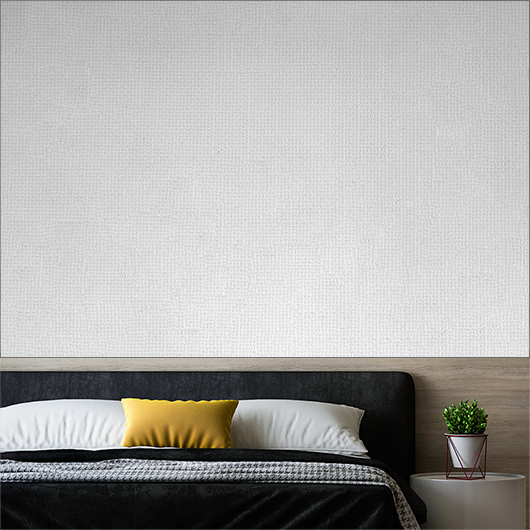
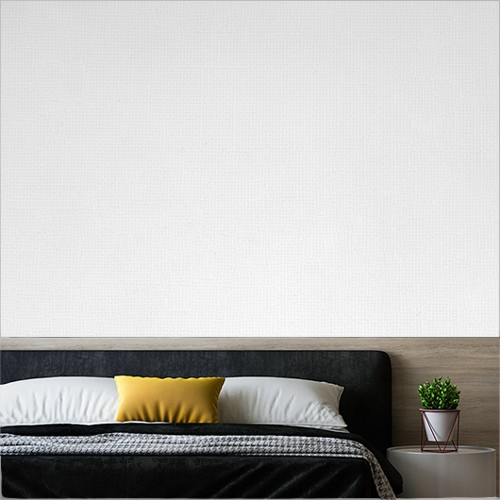
fixing  mask issues

diff --git a/src/components/ImagePreview.jsx b/src/components/ImagePreview.jsx
@@ -8,10 +8,10 @@ import { FreeMode, Thumbs, Navigation } from 'swiper/modules';
 import DesignEditor from './DesignEditor'; // Make sure this path is correct
 
 const ImagePreview = ({ designImage, widthFt, widthIn, heightFt, heightIn }) => {
-    
-  
 
-  
+
+
+
   const [selectedImage, setSelectedImage] = useState({
     src: 'images/mask_1.jpeg',
     type: 'measurement',
@@ -20,8 +20,8 @@ const ImagePreview = ({ designImage, widthFt, widthIn, heightFt, heightIn }) => 
   const swiperRef = useRef(null);
 
   const images = [
-    { src: 'images/mask_1.jpeg', type: 'measurement' },
-    { src: 'images/mask_2.png', type: 'image' },
+    { src: 'images/mask_1.jpeg', type: 'front' },
+    { src: 'images/mask_3.png', type: 'mask' },
     { src: 'images/sample_3.jpeg', type: 'video', videoSrc: 'videos/sq_wallpaper.mp4' },
     { src: 'images/sample_5.png', type: 'image' },
     { src: 'images/sample_6.png', type: 'image' },
@@ -44,56 +44,61 @@ const ImagePreview = ({ designImage, widthFt, widthIn, heightFt, heightIn }) => 
       );
     }
 
-    if (selectedImage.src === 'images/mask_1.jpeg') {
-  return (
-    <div className="relative p-2 bg-white rounded w-[539px] h-[638px]">
-      <img
-        src={selectedImage.src}
-        alt="Measurement"
-        className="absolute top-0 left-0 w-[539px] h-[638px] object-cover z-0"
-      />
-
-      {/* Repeating design overlay */}
-      {designImage && (
-        <DesignEditor imageSrc={designImage.src} />
-      )}
-    </div>
-  );
-}
-
-
-    if (selectedImage.src === 'images/mask_2.png') {
+    if (selectedImage.type === 'front') {
       return (
-        <div className="relative w-full h-[490px] overflow-hidden bg-white rounded">
+        <div className="relative p-2 bg-white rounded w-[539px] h-[638px]">
           <img
             src={selectedImage.src}
-            alt="Room Scene"
-            className="relative z-20 object-contain w-full h-full"
+            alt="Measurement"
+            className="absolute top-0 left-0 w-[539px] h-[638px] object-cover z-0"
           />
 
+          {/* Repeating design overlay */}
           {designImage && (
-            <div
-              className="absolute top-0 left-0 z-10 w-full h-full pointer-events-none"
-              style={{
-                backgroundImage: `url(${designImage.src})`,
-                backgroundRepeat: 'no-repeat',
-                backgroundSize: 'cover',
-                backgroundPosition: 'center',
-                backgroundColor: 'rgba(255, 255, 255, 1.0)',
-                WebkitMaskImage: `url(${selectedImage.src})`,
-                WebkitMaskRepeat: 'no-repeat',
-                WebkitMaskSize: 'contain',
-                WebkitMaskPosition: 'center bottom',
-                maskImage: `url(${selectedImage.src})`,
-                maskRepeat: 'no-repeat',
-                maskSize: 'contain',
-                maskPosition: 'center bottom',
-              }}
-            />
+            <DesignEditor imageSrc={designImage.src} />
           )}
         </div>
       );
     }
+
+
+   if (selectedImage.type === 'mask') {
+  return (
+    <div className="relative w-full h-[490px] overflow-hidden bg-white rounded">
+      
+      {/* Design image as the background */}
+      {designImage && (
+        <div
+          className="absolute top-0 left-0 z-0 w-full h-full"
+          style={{
+            backgroundImage: `url(${designImage.src})`,
+            backgroundRepeat: 'no-repeat',
+            backgroundSize: 'cover',
+            backgroundPosition: 'center',
+          }}
+        />
+      )}
+
+      {/* Masked furniture image on top */}
+      <img
+        src={selectedImage.src}
+        alt="Room Scene"
+        className="relative z-10 object-contain w-full h-full"
+        style={{
+          maskImage: `url(${selectedImage.src})`,
+          maskRepeat: 'no-repeat',
+          maskSize: 'contain',
+          maskPosition: 'center bottom',
+          WebkitMaskImage: `url(${selectedImage.src})`,
+          WebkitMaskRepeat: 'no-repeat',
+          WebkitMaskSize: 'contain',
+          WebkitMaskPosition: 'center bottom',
+        }}
+      />
+    </div>
+  );
+}
+
 
     // Default image preview
     return (
@@ -134,9 +139,8 @@ const ImagePreview = ({ designImage, widthFt, widthIn, heightFt, heightIn }) => 
               <img
                 src={img.src}
                 alt={`Thumbnail ${i + 1}`}
-                className={`w-20 h-24 cursor-pointer border rounded object-contain ${
-                  selectedImage.src === img.src ? 'border-pink-500' : 'border-gray-300'
-                }`}
+                className={`w-20 h-24 cursor-pointer border rounded object-contain ${selectedImage.src === img.src ? 'border-pink-500' : 'border-gray-300'
+                  }`}
                 onClick={() => setSelectedImage(img)}
               />
             </SwiperSlide>

diff --git a/src/components/Header.jsx b/src/components/Header.jsx
@@ -1,0 +1,17 @@
+// components/Header.jsx
+import React from "react";
+
+const Header = () => {
+  return (
+    <header className="flex items-center justify-between px-6 py-5 mb-3 text-white bg-pink-500">
+      <h1 className="text-xl font-bold">MyStore</h1>
+      <nav className="space-x-4">
+        <a href="#" className="hover:underline">Home</a>
+        <a href="#" className="hover:underline">Shop</a>
+        <a href="#" className="hover:underline">Contact</a>
+      </nav>
+    </header>
+  );
+};
+
+export default Header;

diff --git a/index.html b/index.html
@@ -3,7 +3,7 @@
   <head>
     <meta charset="UTF-8" />
     <link rel="icon" type="image/svg+xml" href="/vite.svg" />
-    <!-- <meta name="viewport" content="width=device-width, initial-scale=1.0" /> -->
+    <meta name="viewport" content="width=device-width, initial-scale=1.0" />
     <title>Vite + React</title>
     <script src="https://cdn.jsdelivr.net/npm/@tailwindcss/browser@4"></script>
   </head>

diff --git a/src/App.jsx b/src/App.jsx
@@ -1,12 +1,13 @@
 // src/App.jsx
 import React from 'react';
-
+import Header from './components/Header.jsx';
 import ProductPage from './pages/ProductPage.jsx';
 
 const App = () => {
 
   return (
    <>
+   <Header/>
    <ProductPage/>
    </>
   );
